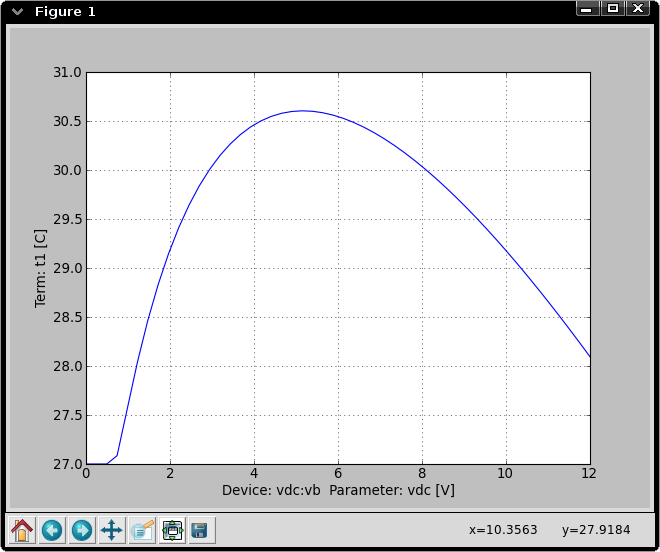
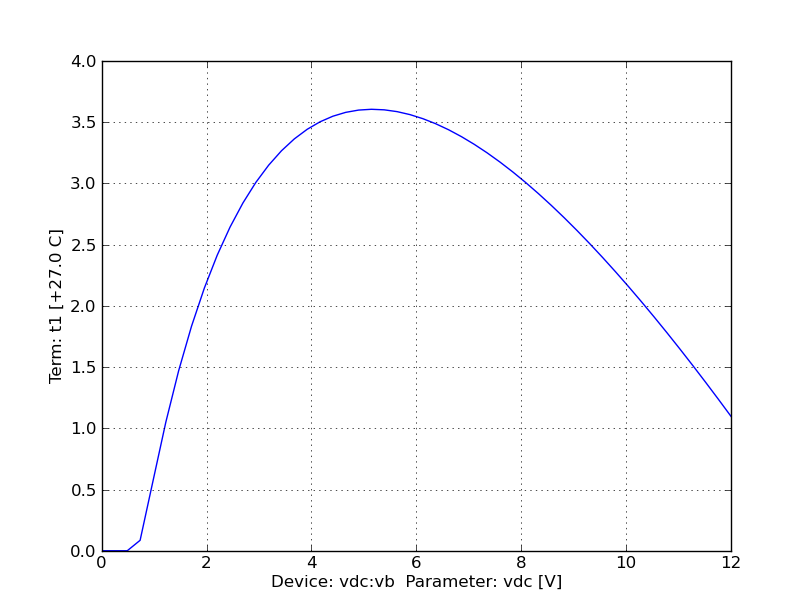
Updated documentation/examples for electrothermal analysis

diff --git a/doc/examples/examples.rst b/doc/examples/examples.rst
@@ -116,7 +116,6 @@ BJT model::
 
     # Test of an electrothermal BJT
     
-    .options gyr=1e-4 maxdelta=100.
     .analysis dc device=vdc:vb param=vdc start=0 stop=12 shell=1
     
     .model mynpn svbjt_t (bf=200 vaf=100 ikf=10e-3 rb=1k)
@@ -128,32 +127,32 @@ BJT model::
     
     svbjt_t:q1 1 2 0 0 t1 gnd model=mynpn
     
-    res:rth t1 t2 r=100.
-    vdc:tamb t2 gnd vdc=27.C
+    res:rth t1 0 r=100.
     
     .plot dc t1 
     .plot dc 1 2 
     
     .end
 
-If the ``.options`` line is ommited, the analysis succeeds but
-requires a few more iterations.  Note that ``shell=1`` in the analysis
-line. This indicates the simulator to run an interactive shell after
-completing the analysis.  Running this netlist and entering some
-commands in the simulator shell produces::
+Note that ``shell=1`` in the analysis line. This indicates the
+simulator to run an interactive shell after completing the analysis.
+Running this netlist and entering some commands in the simulator shell
+produces::
 
-    cechrist@phobos:~/src/cardoon/test$ cardoon npn_thermal.net
+    cechrist@moon:~/wd/cardoon/examples$ cardoon npn_thermal.net 
+    
+    Cardoon Circuit Simulator 0.4 release 0.4.1.dev
     ******************************************************
                      DC sweep analysis
     ******************************************************
     
      # Test of an electrothermal BJT 
     
-    Average iterations: 4
-    Average residual: 6.954042279e-08
+    System dimension: 11
+    Sweep:  Device: vdc:vb  Parameter: vdc
+    Average iterations: 5
+    Average residual: 0.0114478106429
     
-    <close plot windows here>
-
     Dropping into IPython, type CTR-D to exit
     Available commands:
         sweepvar: vector with swept parameter
@@ -173,7 +172,9 @@ The base voltage is swept. As the collector current increases, at
 first the power dissipation in the BJT also increases but eventually
 the reduction in :math:`V_{CE}` causes a reduction in power
 dissipation as the transistor gets closer to saturation. This effect
-can be observed in the temperature plot shown below.
+can be observed in the temperature plot shown below. Temperature is
+given as the increment to ambient temperature given in the
+``.options`` line (the default value is used here). 
 
 .. image:: bjt_temp_out.png
    :scale: 100 %

diff --git a/doc/design.rst b/doc/design.rst
@@ -221,6 +221,23 @@ less work to operate directly from the vector of unknowns in the
 equation-solving routine.
 
 
+Temperature handling in electrothermal simulations
+--------------------------------------------------
+
+The nodal voltage in the thermal port of electrothermal models
+represents the difference between the device temperature and the
+ambient temperature. In this way a zero difference is usually a good
+guess for the nonlinear solver and the numerical solution is more
+robust.
+
+Some issues that should be addressed in the future include:
+
+  * Automatically convert the temperature difference to the actual
+    temperature for plotting and saving (the same scheme should also
+    work for currents in voltage sources for example).
+
+  * Propagate units across terminals in thermal circuits using an
+    algorithm similar to freeda's local reference group checking.
 
 
 .. include:: ../TODO
